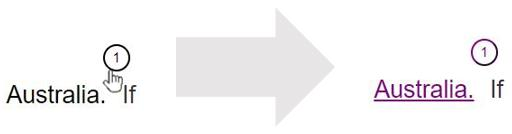
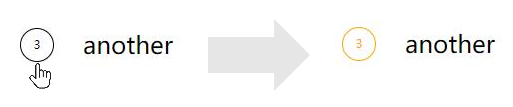
test

Changed region(s): [[0.0, 0.0841, 0.75, 0.8972], [0.7188, 0.5888, 1.0, 0.785], [0.7812, 0.2804, 1.0, 0.5047]]

diff --git a/templates/label.html b/templates/label.html
@@ -22,11 +22,12 @@
             <div class="modal-content">
                 <div class="modal-body">
                     接下来，请在您刚才读完的文章中进行标注，具体如下。
-                    1. 若在阅读过程中有不懂的单词，请<strong>单击该单词</strong>，标注形式如下：
+                    <br />
+                    1. 若在阅读过程中有影响你顺畅阅读（不论懂不懂）的单词，请<strong>单击该单词</strong>，标注形式如下：
                     <img src="/static/images/wordLabel.jpg" width="100%" height="100%" alt="labeling instructions"></img>
-                    2. 若在阅读过程中有不懂的句子，请<strong>双击句子中任意一个单词</strong>，标注形式如下：
+                    2. 若在阅读过程中有影响你顺畅阅读（不论懂不懂）的句子，请<strong>双击句子中任意一个单词</strong>，标注形式如下：
                     <img src="/static/images/sentenceLabel.jpg" width="100%" height="100%" alt="labeling instructions"></img>
-                    3. 若在阅读过程中出现走神，请<strong>单击对应行末尾右方的圆形按钮</strong>，标注形式如下：
+                    3. 若在阅读过程中出现走神，请<strong>单击对应行左边的圆形按钮</strong>，标注形式如下：
                     <img src="/static/images/wanderLabel.jpg" width="100%" height="100%" alt="labeling instructions"></img>
                 </div>
                 <div class="modal-footer">
@@ -64,6 +65,8 @@
             contentOfPages: [],
             words: [],
             sentences: [],
+            sentencesCurPage: [],
+            sentencesPerPage: [],
             {#lines: "",#}
             page: 1,
             totalPage: 1,
@@ -75,7 +78,7 @@
             radio: 0,
             paraLoc: [],
             allParas: [],
-            linesCurPage: [],
+            {#linesCurPage: [],#}
         },
         methods: {
             getWordLocation: function (num) {
@@ -157,8 +160,8 @@
             },
 
             changeWanderSelect: function (num) {
-                let start = this.linesCurPage[num-1][0];
-                let end = this.linesCurPage[num-1][1];
+                let start = this.sentencesCurPage[num-1][0];
+                let end = this.sentencesCurPage[num-1][1];
                 for(let i = 0; i < this.labels[this.page-1].wanderLabels.length; i++) {
                     if(this.labels[this.page-1].wanderLabels[i][0] == start && this.labels[this.page-1].wanderLabels[i][1] == end) {
                         this.labels[this.page-1].wanderLabels[num-1] = [];
@@ -194,11 +197,10 @@
                 let lastWord = null;
                 var e = document.getElementById('para');
                 var Content = this.content[this.page-1].split('..');
-                console.log(Content)
                 Content.splice(Content.length-1, 1);
                 this.sentences = Content;
                 for (let i = 0; i < Content.length; i++) {
-                    var sentence = Content[i].split(' ');
+                    var sentence = Content[i].replace(new RegExp("."), "").split(' ');
                     for (let j = 0; j < sentence.length; j++) {
                         if (sentence[j] != "") {
                             this.words.push(sentence[j].split(',')[0]);
@@ -210,16 +212,27 @@
                             el.setAttribute("ondblclick", "changeSentenceSelect(" + num + ")");
                             e.appendChild(el);
                             if (j == sentence.length - 1) {
+                                end = num;
+                                this.sentencesCurPage.push(new Array(start, end));
+                                start = num + 1;
                                 el.innerHTML = sentence[j] + '.';
+                                let ele = document.createElement('button');
+                                ele.className = "wander";
+                                ele.innerHTML = (i+1).toString();
+                                ele.setAttribute("onclick", "changeWanderSelect("+ (i+1) + ")");
+                                ele.style.left = el.getBoundingClientRect().right - 10 + "px";
+                                ele.style.top = el.getBoundingClientRect().top - 10 + "px";
+                                document.getElementById('labelArea').appendChild(ele);
+                                this.labels[this.page-1].wanderLabels.push([]);
                             }
-                            if(lastWord) {
-                                if(el.getBoundingClientRect().top > lastWord.getBoundingClientRect().top || num == this.paraLoc[this.page-1][this.paraLoc[this.page-1].length-1]) {
-                                    end = num - 1;
-                                    this.linesCurPage.push(new Array(start, end));
-                                    start = num;
-                                }
-                            }
-                            lastWord = el;
+                            {#if(lastWord) {#}
+                            {#    if(el.getBoundingClientRect().top > lastWord.getBoundingClientRect().top || num == this.paraLoc[this.page-1][this.paraLoc[this.page-1].length-1]) {#}
+                            {#        end = num - 1;#}
+                            {#        this.linesCurPage.push(new Array(start, end));#}
+                            {#        start = num;#}
+                            {#    }#}
+                            {# }#}
+                            {#lastWord = el;#}
                             num += 1;
                             if(this.isInArr(num - 1,this.paraLoc[this.page-1])) {
                                 el = document.createElement("button");
@@ -234,17 +247,17 @@
                         }
                     }
                 }
-                for(let i = 0; i < this.linesCurPage.length; i++) {
-                    let el = document.createElement('button');
-                    el.className = "wander";
-                    el.innerHTML = (i+1).toString();
-                    el.setAttribute("onclick", "changeWanderSelect("+ (i+1) + ")");
-                    start = document.getElementsByClassName('word')[this.linesCurPage[i][0]].getBoundingClientRect().top;
-                    let end = document.getElementsByClassName('word')[this.linesCurPage[i][1]].getBoundingClientRect().bottom;
-                    el.style.top = (end - start) / 2 + start - 17 + "px";
-                    document.getElementById('labelArea').appendChild(el);
-                    this.labels[this.page-1].wanderLabels.push([]);
-                }
+                {#for(let i = 0; i < this.linesCurPage.length; i++) {#}
+                {#    let el = document.createElement('button');#}
+                {#    el.className = "wander";#}
+                {#    el.innerHTML = (i+1).toString();#}
+                {#    el.setAttribute("onclick", "changeWanderSelect("+ (i+1) + ")");#}
+                {#    start = document.getElementsByClassName('word')[this.linesCurPage[i][0]].getBoundingClientRect().top;#}
+                {#    let end = document.getElementsByClassName('word')[this.linesCurPage[i][1]].getBoundingClientRect().bottom;#}
+                {#    el.style.top = (end - start) / 2 + start - 17 + "px";#}
+                {#    document.getElementById('labelArea').appendChild(el);#}
+                {#    this.labels[this.page-1].wanderLabels.push([]);#}
+                {# }#}
                 {#let buttonNum = 0;#}
                 {#for (; e.children[buttonNum]; buttonNum++) {#}
                 {#    if(buttonNum > 1 && e.children[buttonNum].getBoundingClientRect().top > e.children[buttonNum-1].getBoundingClientRect().top) {#}
@@ -271,6 +284,10 @@
                 {#    document.getElementById('labelArea').appendChild(lab);#}
                 {# }#}
                 this.rememberLabels();
+                if(!this.sentencesPerPage[this.page - 1]) {
+                    this.sentencesPerPage.push(this.sentencesCurPage);
+                }
+                console.log(this.sentencesPerPage);
             },
 
             //把labels发送给后端存储,并更新word_level_data
@@ -287,7 +304,7 @@
                 console.log(this.labels);
                 let formdata = new FormData();
                 formdata.append('labels',JSON.stringify(this.labels));
-                formdata.append("para", JSON.stringify(this.allParas));
+                formdata.append("sentence", JSON.stringify(this.sentencesPerPage));
                 $.ajax({
                     type: 'POST',
                     url: '/label/send/',
@@ -334,6 +351,7 @@
                 this.words = [];
                 this.lines = [];
                 this.linesCurPage = [];
+                this.sentencesCurPage = [];
                 {#if(this.labels[this.page-1])#}
                 {#    this.radio = this.labels[this.page-1].wanderLabels;#}
                 {#else#}

diff --git a/templates/onlineReading.html b/templates/onlineReading.html
@@ -20,7 +20,13 @@
             <h1 class="display-5 fw-bold">MemXEdu</h1>
             <div class="col-lg-6 mx-auto mt-3">
                 <p class="lead mb-4">
-                    点击下方的“<strong>开始使用</strong>”按钮，即可使用本阅读软件。请注意：软件将以全屏模式运行，你可以使用“<strong>空格</strong>”键来结束使用。
+                    点击下方的“<strong>开始使用</strong>”按钮，即可使用本阅读软件。请注意：软件将以全屏模式运行，你可以使用方向键“<strong>←</strong>”和“<strong>→</strong>”进行上下翻页，“<strong>空格</strong>”键来结束使用。
+                </p>
+                <p class="lead mb-4">
+                    阅读期间，请尽量<strong>鼠标跟随</strong>你正在看的内容。
+                </p>
+                <p class="lead mb-4">
+                    阅读期间，请留意自己在阅读某一或多行时是否存在“<strong>走神</strong>”的情况，即<strong>当前眼睛在看的文本内容与内心所思考的东西完全无关，或者眼睛完全不在看文本</strong>。
                 </p>
                 <div class="d-grid gap-2 d-sm-flex justify-content-sm-center">
                     <button type="button" class="btn btn-primary btn-lg px-4 gap-3" onclick="get_start()">开始使用</button>

diff --git a/static/css/label.css b/static/css/label.css
@@ -42,15 +42,15 @@ body{
 }
 
 .wander{
-    height: 34px;
-    width: 34px;
+    height: 24px;
+    width: 24px;
     border-radius: 50%;
     cursor: pointer;
     background: rgba(0,0,0,0);
     position: absolute;
-    font-size: 8px;
+    font-size: 5px;
     border: 1px solid black;
-    left: 275px;
+
 }
 
 #pageBox{
